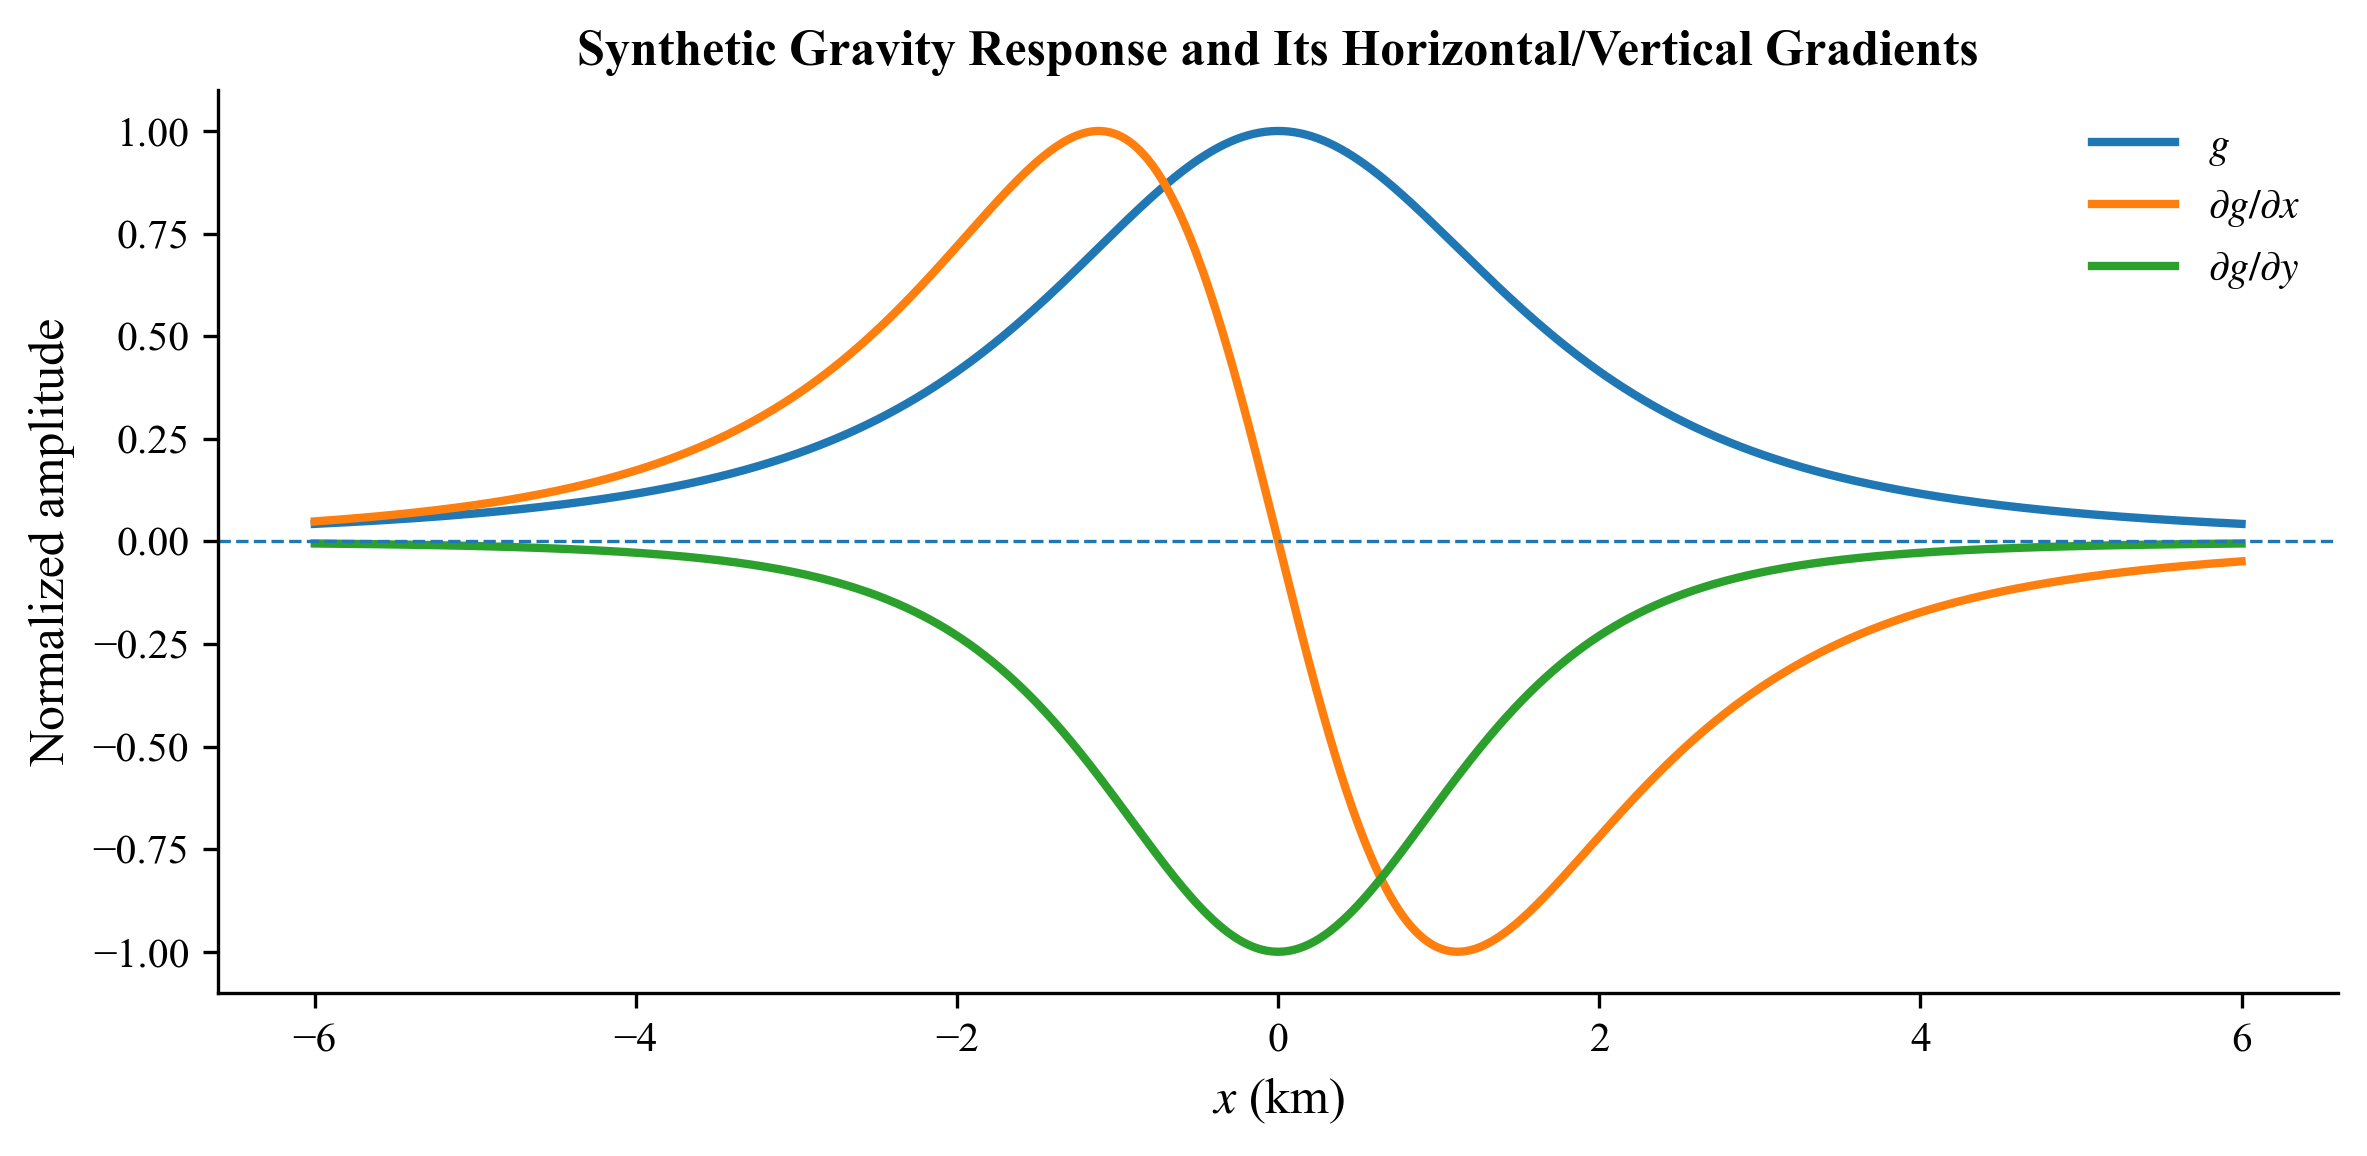
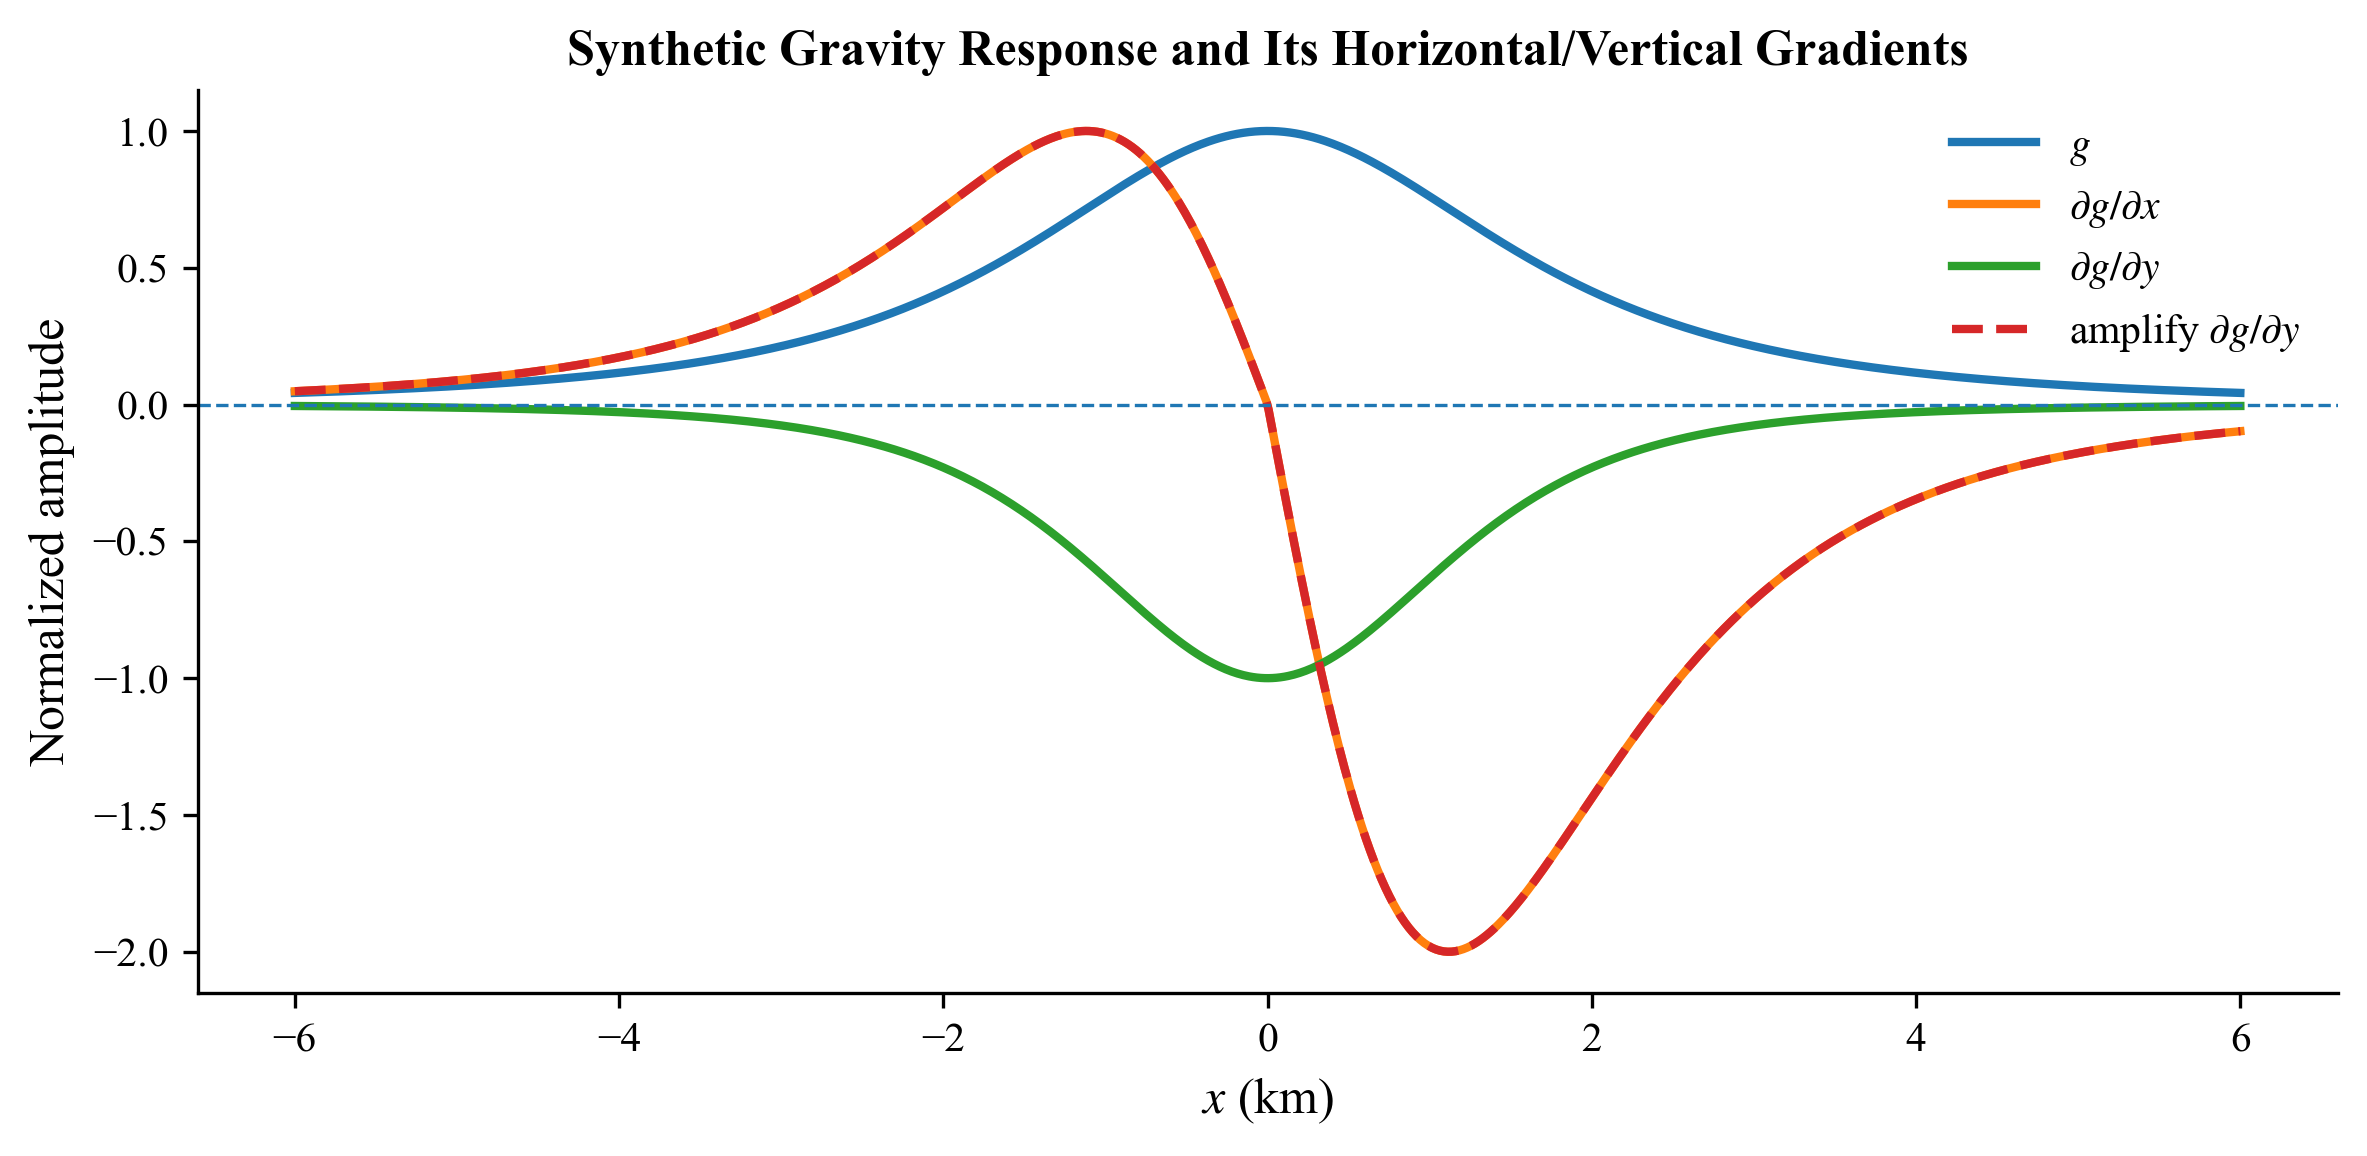
Sep 01

diff --git a/excercise/ch_01_gradient.py b/excercise/ch_01_gradient.py
@@ -48,6 +48,15 @@ g /= np.max(np.abs(g))
 dg_dx /= np.max(np.abs(dg_dx))
 dg_dy /= np.max(np.abs(dg_dy))
 
+# ---------------------------------------------------------
+# Enhance dg_dx
+# ---------------------------------------------------------
+
+print(dg_dx.shape)
+# preallocate
+amplify = np.zeros_like(dg_dx)
+amplify = dg_dx
+amplify[500:] = dg_dx[500:] * 2 
 
 # ---------------------------------------------------------
 # Plot
@@ -57,6 +66,7 @@ fig, ax = plt.subplots(figsize=(8, 4))
 ax.plot(x, g, linewidth=2.0, label=r"$g$",)
 ax.plot(x, dg_dx, linewidth=2.0, label=r"$\partial g/\partial x$",)
 ax.plot(x, dg_dy, linewidth=2.0, label=r"$\partial g/\partial y$",)
+ax.plot(x, amplify, linewidth=2.0, linestyle="--", label=r"amplify $\partial g/\partial y$",)
 ax.axhline(0, linewidth=0.8, linestyle="--",)
 ax.set_title("Synthetic Gravity Response and Its Horizontal/Vertical Gradients")
 ax.set_xlabel(r"$x$ (km)")
@@ -64,7 +74,6 @@ ax.set_ylabel("Normalized amplitude")
 ax.legend(frameon=False)
 ax.spines["top"].set_visible(False)
 ax.spines["right"].set_visible(False)
-
 fig.tight_layout()
 fig.savefig("gravity_gradient_overlay.png", bbox_inches="tight",)
 plt.show()
